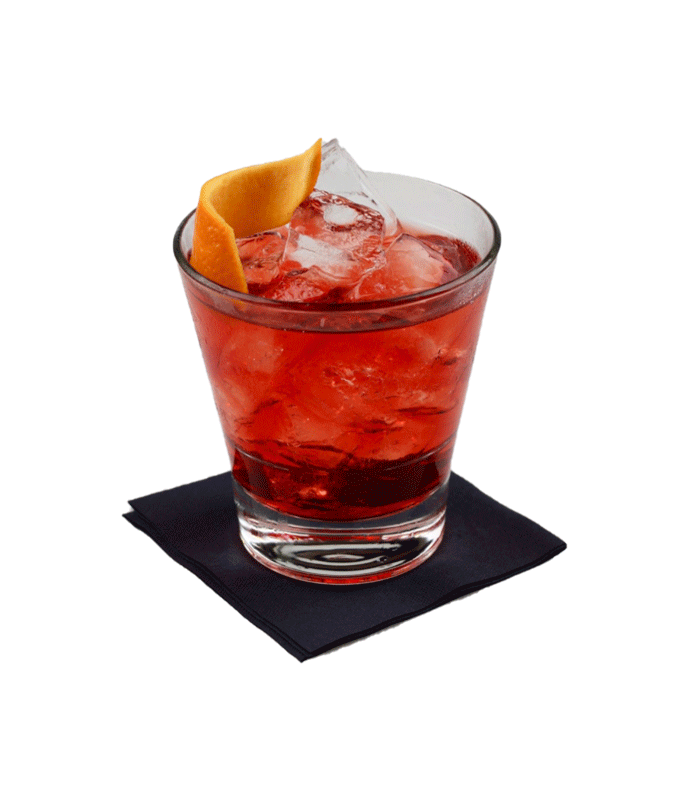
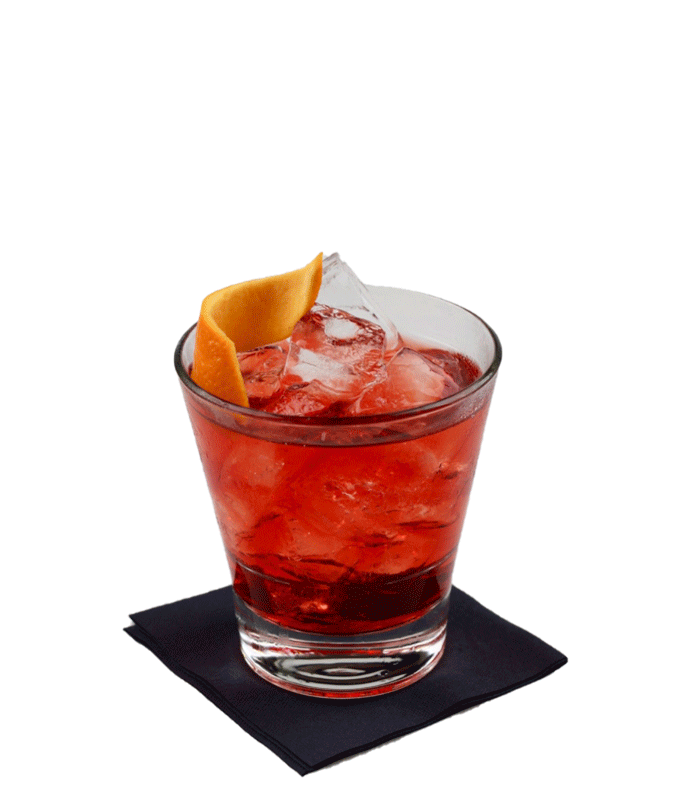
must know cards implemented

diff --git a/src/components/home/carousel/DrinkCard.tsx b/src/components/home/carousel/DrinkCard.tsx
@@ -1,10 +1,27 @@
 import './DrinkCard.css'
-import tea from  '../../../images/Negroni.png'
-function DrinkCard(){
+import tea from  '../../../images/Martini.png';
+
+interface Props {
+    drink: {
+      Name: string;
+      Ingredients: string[];
+      Recipe: string[];
+      History: string;
+    }
+  }
+function DrinkCard({drink} : Props){
+    let Name = drink.Name;
+    if(Name === 'Martini Gin/Vodka 6:1'){
+        Name = 'Martini';
+    }
+    const source = require(`../../../images/${Name}.png`)
+    console.log(Name);
+    console.log(source);
     return <div className={'drinkCard'}>
-        <div className={'drinkImage'}><img src={tea} alt="long island"/>
+        <div className={'drinkImage'}><img src={source} alt={Name} 
+/>
 </div>
-        <div className={'drinkName'}><h3>Long Island Ice Tea</h3></div>
+        <div className={'drinkName'}><h3>{Name}</h3></div>
     </div>
 }
 

diff --git a/src/components/home/carousel/CarouselItems.tsx b/src/components/home/carousel/CarouselItems.tsx
@@ -1,11 +1,16 @@
 import './CarouselItems.css'
 import DrinkCard from './DrinkCard';
+import { useSelector } from "react-redux";
+import { PageState } from "../../../store/pagesReducer";
+
 function CarouselItems(){
+    const drinks= useSelector<PageState, PageState["drinks"]>(state=>state.drinks);
+
+    const mustKnow = [drinks[9],drinks[8], drinks[6], drinks[4]];
+    console.log(mustKnow);
     return <div className={'carouselItems'}>
-        <DrinkCard />
-        <DrinkCard />
-        <DrinkCard />
-        <DrinkCard />
+        {mustKnow.map((drink, index) => (<DrinkCard key={index} drink={drink}/>))}
+
     </div>
 }
 

diff --git a/src/components/home/carousel/DrinkCard.css b/src/components/home/carousel/DrinkCard.css
@@ -14,7 +14,8 @@
     height: 80%;
 
     display: flex;
-    justify-content: center;
+    flex-direction: column;
+    justify-content: flex-end;
     align-items: center;
 
 }
